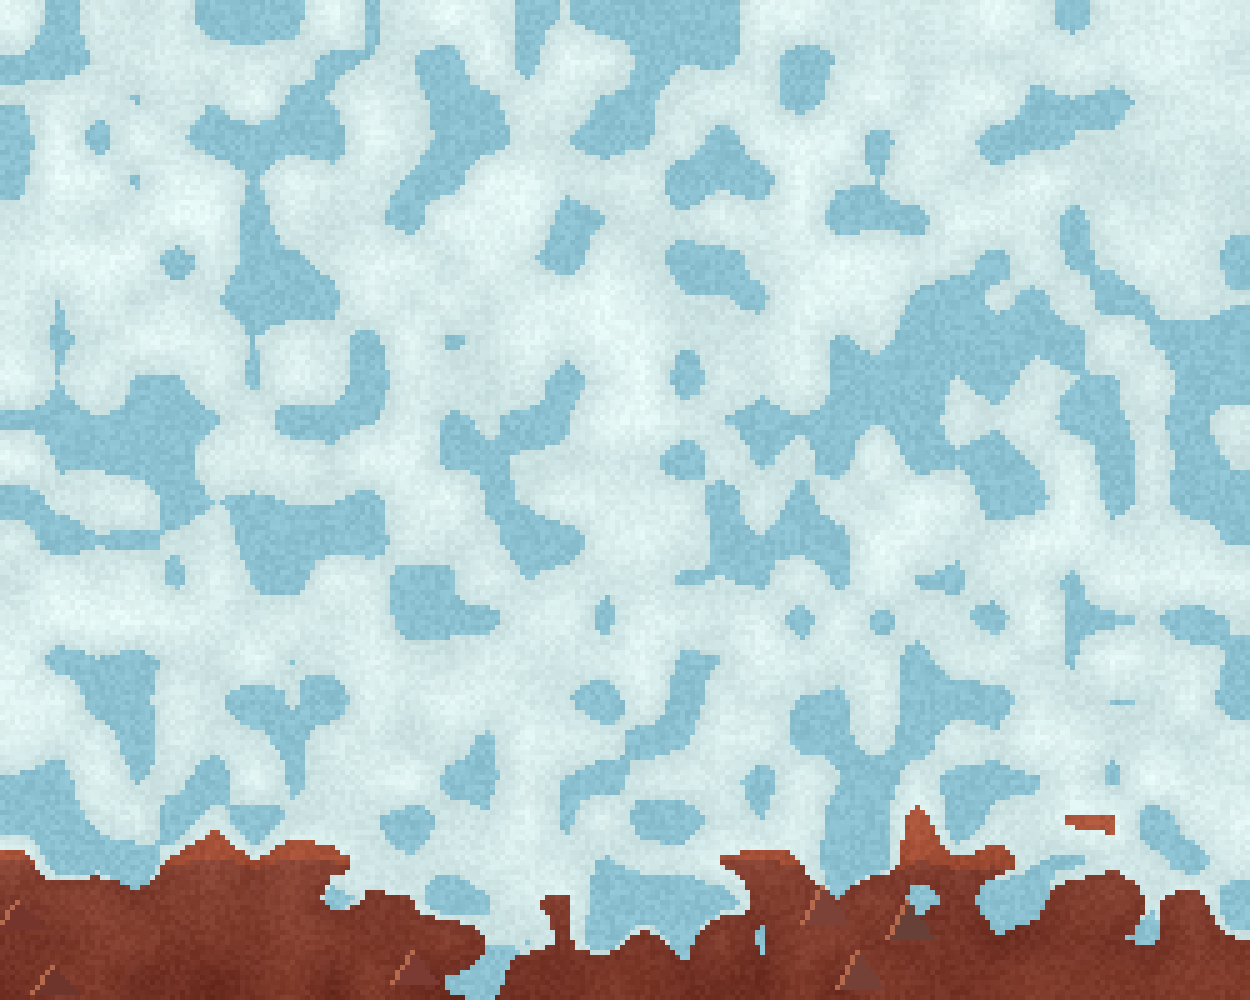
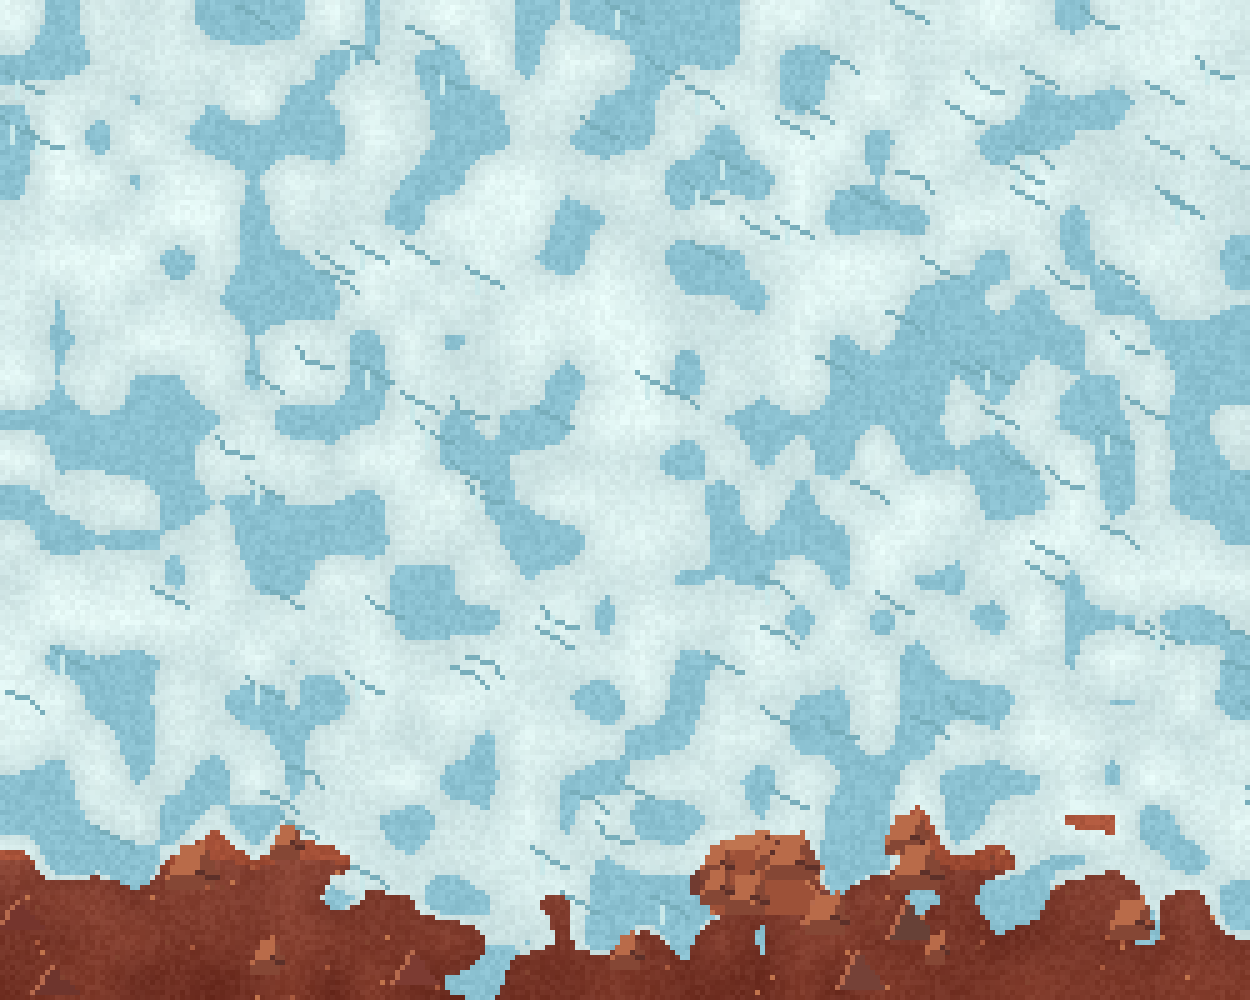
pipes and stage backgrounds

diff --git a/style.css b/style.css
@@ -16,20 +16,18 @@ main{
 .tile {
     width: 100%;
     aspect-ratio: 1/1;
-    color: none;
-    background-color: none;
+    background-color: rgba(0, 0, 0, 0.15);
     cursor: pointer;
     border-radius: 10%;
-
 }
 
-.tile:hover{
-    background-color: #606060;
+.tile:hover {
+    background-color: rgba(0, 0, 0, 0.30);
     scale: 1.05;
 }
 
 .tile.selected {
-    background-color: #606060;
+    background-color: rgba(0, 0, 0, 0.30);
 }
 
 .tile p {
@@ -41,8 +39,11 @@ main{
     display: flex;
 }
 
-.tile img {
-    max-width: 100%;
+.tile .machine-img {
+    width: 100%;
+    height: 100%;
+    object-fit: contain;
+    display: block;
 }
 
 /* Tile Popup Menu */
@@ -61,7 +62,7 @@ main{
 }
 
 .tile.selected{
-    background-color: #606060;
+    background-color: rgba(0, 0, 0, 0.30);
 }
 
 .tile-menu-popup.visible{
@@ -155,44 +156,41 @@ main{
 
 .pipe {
     position: absolute;
-    z-index: 5;
+    width: 36px;
+    height: 48px;
+    z-index: 3;
     pointer-events: none;
-    object-fit: fill;
+    object-fit: contain;
 }
 
 /* Horizontal pipes */
 .pipe-left,
 .pipe-right {
-    width: 20px;
-    height: 12px;
     top: 50%;
-    transform: translateY(-50%);
+    transform: translateY(-50%) rotate(90deg);
 }
 
 .pipe-left {
-    left: -20px;
+    left: calc(-1 * var(--pipe-gap) / 2 - 18px);
 }
 
 .pipe-right {
-    right: -20px;
+    right: calc(-1 * var(--pipe-gap) / 2 - 18px);
 }
 
-/* Vertical pipes */
 /* Vertical pipes */
 .pipe-top,
 .pipe-bottom {
-    width: 20px;
-    height: 12px;
     left: 50%;
-    transform: translateX(-50%) rotate(90deg);
+    transform: translateX(-50%);
 }
 
 .pipe-top {
-    top: -16px;
+    top: calc(-1 * var(--pipe-gap) / 2 - 24px);
 }
 
 .pipe-bottom {
-    bottom: -16px;
+    bottom: calc(-1 * var(--pipe-gap) / 2 - 24px);
 }
 
 #map {
@@ -204,4 +202,7 @@ main{
     background-repeat: no-repeat;
 
     z-index: 0;
+
+    --pipe-gap: 20px;
+    gap: var(--pipe-gap);
 }

diff --git a/script.js b/script.js
@@ -26,6 +26,7 @@ const steamDisplay = document.querySelector("#steam");
 const shopMenu = document.querySelector("#shopMenu");
 const shopItems = document.querySelector("#shopItems");
 const closeShopButton = document.querySelector("#closeShop");
+const map = document.querySelector("#map");
 
 
 
@@ -726,7 +727,9 @@ function buy(machine) {
 
 function isBought(name) {
     return machines.some(machine =>
-        machine.name === name && machine.bought
+        machine.name === name &&
+        machine.bought &&
+        machine.placed
     );
 }
 
@@ -778,6 +781,7 @@ function stageUp() {
     ) {
         gameStage = 5;
     }
+    map.style.backgroundImage = `url("images/stage_${gameStage}.png")`;
 }
 
 function loadStage() {
@@ -883,7 +887,7 @@ function createPipe(tile, direction) {
 
     const pipe = document.createElement("img");
 
-    pipe.src = "images/pipe2.png";
+    pipe.src = "images/pipe.png";
     pipe.className = `pipe pipe-${direction}`;
 
     tile.appendChild(pipe);
